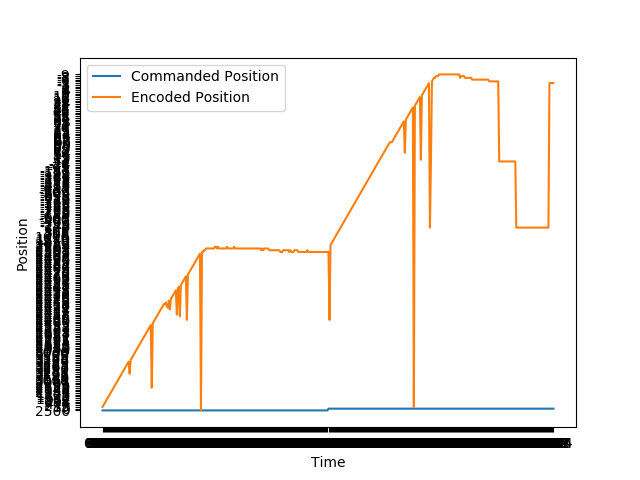
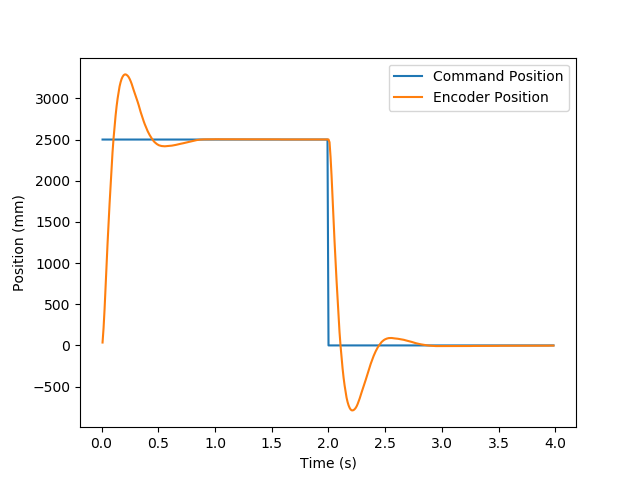
Working code commit

diff --git a/controlsCode.py b/controlsCode.py
@@ -25,25 +25,55 @@ def extract_data(extension):
 
     raw_data = np.char.strip(raw_data, ';')
     raw_data = np.char.strip(raw_data, ']')
+    raw_data = raw_data.astype(np.float)
     return raw_data
 
-def plot_data(fig_number, set_name, x, y1, y2):
+def plot_freqData(fig_number, set_name, x, y):
+    fig = plt.figure(fig_number)
+    plt.semilogx(x, y)
+    plt.xlabel('Frequency (Hz)')
+    plt.ylabel('Position (dB)')
+    plt.savefig(set_name + '.png')
+    fig.show()
+
+def plot_regData(fig_number, set_name, x, y1, y2):
     fig = plt.figure(fig_number)
     plt.plot(x, y1)
     plt.plot(x, y2)
-    plt.legend(['Commanded Position', 'Encoded Position'])
-    plt.xlabel('Time')
-    plt.ylabel('Position')
+    plt.legend(['Command Position', 'Encoder Position'])
+    plt.xlabel('Time (s)')
+    plt.ylabel('Position (mm)')
     plt.savefig(set_name + '.png')
     fig.show()
                 
 #Processing the required datasets
-def processing_Datasets():
+def processing_freqDatasets():
     global figure_counter
-    set_names = np.array(['frequency response critically damped', 
+    freq_names = np.array(['frequency response critically damped', 
                           'frequency response over damped',
-                          'frequency response under damped',
-                          'P response Kp=2X',
+                          'frequency response under damped'])
+
+    for i in range(np.size(freq_names)):
+        data = extract_data(freq_names[i])
+
+        time, posCom, posEnc = data[:, 1], data[:, 2], data[:, 3]
+
+        freq = 10**((1.0 - time/60.0)*math.log10(0.1) + (time/60.0)*math.log10(20.0))
+
+        posDB = np.zeros(np.size(posEnc))
+        posEnc = np.abs(posEnc)
+        for j in range(np.size(posEnc)):
+            if posEnc[j] > 1.0:
+                posDB[j] = 20.0*math.log10(posEnc[j])
+            else:
+                posDB[j] = 20.0*math.log10(0.1)
+
+        figure_counter += 1
+        plot_freqData(figure_counter, freq_names[i], freq, posDB)
+    
+def processing_regDatasets():
+    global figure_counter
+    set_names = np.array(['P response Kp=2X',
                           'P response Kp=X',
                           'PD response critically damped',
                           'PD response over damped',
@@ -53,19 +83,13 @@ def processing_Datasets():
 
     for i in range(np.size(set_names)):
         data = extract_data(set_names[i])
-
-        time   = data[:, 1]
-        posCom = data[:, 2]
-        posEnc = data[:, 3]
+        time, posCom, posEnc = data[:, 1], data[:, 2], data[:, 3]
         figure_counter += 1
+        plot_regData(figure_counter, set_names[i], time, posCom, posEnc)
 
-        plot_data(figure_counter, set_names[i], time, posCom, posEnc)
-    
-    input()
-
-    return set_names, data
-
-set_names, data = processing_Datasets()
+processing_freqDatasets()
+processing_regDatasets()
+input()
 
 
 
